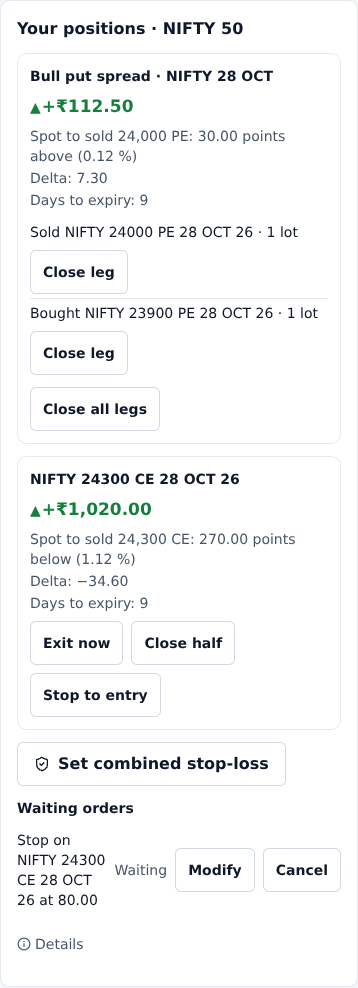
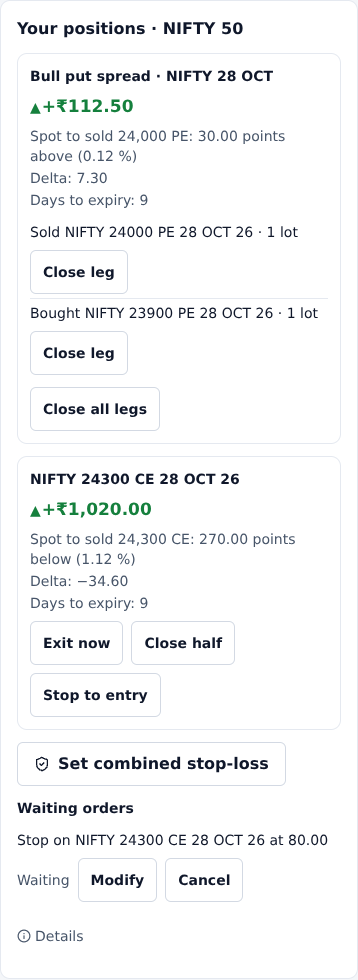
Proof follow-ups: waiting-order row, pulse touch sizes, study PDF page breaks
- WaitingOrdersV2 (Copilot position cards, Positions, Terminal): on a phone the order line takes the full width and
  Waiting / Modify / Cancel wrap to their own row; from sm up unchanged.
- Market pulse: PAPER / LIVE switch and the thesis Symbol picker are 44 px tall on small screens or a touch pointer;
  desktop unchanged (24 / 36 px).
- Study PDF page engine: a table that continues on a new page repeats "<section> (continued)" and its header row; a
  section's closing lines never stand alone at the top of a page (the piece before them comes along). Tests added.
- Proof pages: M77 sample PDF pages 3-6 regenerated (same fixture, 6 pages); M76 positions-390 shots regenerated;
  the matching open items marked fixed.

Claude-Session: https://claude.ai/code/session_0111ZseAMRvkKNzt3WVC9Lph

diff --git a/docs/design/M77_PROOF.html b/docs/design/M77_PROOF.html
@@ -104,7 +104,7 @@ step after deploy</strong> (saved from his account and attached to his private r
 <figure><figcaption>Desktop 1440 - dark</figcaption><img src="m77/account-export-1440-dark.png" alt="Desktop 1440 - dark" loading="lazy"></figure>
 </div>
 <h2>Sample PDF from the builder (A4, 6 pages, every section on)</h2>
-<p>Made-up fixture snapshot (the backend tests' NIFTY BANK frames, March 2026). File: 724 KB. Sections: cover, charts, structure, areas, ai_card, option_context, trade_plan, pre_trade_check, scenarios, similar_setups, notes.</p>
+<p>Made-up fixture snapshot (the backend tests' NIFTY BANK frames, March 2026). File: 734 KB. Sections: cover, charts, structure, areas, ai_card, option_context, trade_plan, pre_trade_check, scenarios, similar_setups, notes.</p>
 <div class="pages">
 <figure><figcaption>PDF page 1 of 6</figcaption><img src="m77/pdf-page-1.png" alt="PDF page 1 of 6" loading="lazy"></figure><figure><figcaption>PDF page 2 of 6</figcaption><img src="m77/pdf-page-2.png" alt="PDF page 2 of 6" loading="lazy"></figure><figure><figcaption>PDF page 3 of 6</figcaption><img src="m77/pdf-page-3.png" alt="PDF page 3 of 6" loading="lazy"></figure><figure><figcaption>PDF page 4 of 6</figcaption><img src="m77/pdf-page-4.png" alt="PDF page 4 of 6" loading="lazy"></figure><figure><figcaption>PDF page 5 of 6</figcaption><img src="m77/pdf-page-5.png" alt="PDF page 5 of 6" loading="lazy"></figure><figure><figcaption>PDF page 6 of 6</figcaption><img src="m77/pdf-page-6.png" alt="PDF page 6 of 6" loading="lazy"></figure>
 </div>
@@ -112,9 +112,10 @@ step after deploy</strong> (saved from his account and attached to his private r
 <div class="phones"><figure><figcaption>Study as one phone picture</figcaption><img src="m77/study-phone.png" alt="Study as one phone picture" loading="lazy"></figure><figure><figcaption>One chart (15 min)</figcaption><img src="m77/study-chart-15m.png" alt="One chart (15 min)" loading="lazy"></figure></div>
 <h2>Seen in these pictures - open items</h2>
 <ul>
-<li>PDF page 4 opens with the AI card's "Educational only." line, cut off from its section on page 3 (the page engine keeps
-a section's last line apart).</li>
-<li>PDF page 5 continues the trade-plan table with no "Trade plan (continued)" heading.</li>
+<li>Fixed (proof follow-ups): the AI card's closing "Educational only." line no longer opens page 4 alone - the card's last
+row comes along under "AI explanation (continued)" and the repeated header row (page 4).</li>
+<li>Fixed (proof follow-ups): a table that continues on a new page repeats "&lt;section&gt; (continued)" and its header row
+("Trade plan (continued)", page 5).</li>
 <li>CSV ZIP (11 files) checked: structure, areas, option context, AI card, trade plan, scenarios, pre-trade check, similar setups,
 checklist, bars per timeframe.</li>
 </ul>

diff --git a/docs/design/M76_PROOF.html b/docs/design/M76_PROOF.html
@@ -180,11 +180,12 @@ while a facility is only looked at.</p>
 <h2 id="open">Seen in these pictures - open items</h2>
 <ul>
 <li>MP-12 (trigger-plan dry run, D-2) is not built yet, so it has no picture.</li>
-<li>Waiting orders inside the position cards (phone 390): the order line wraps into a narrow column beside Waiting / Modify /
-Cancel (the shared WaitingOrdersV2 row, also used on Positions and the Terminal).</li>
+<li>Fixed (proof follow-ups): waiting orders inside the position cards (phone 390) - the order line now takes the full width,
+with Waiting / Modify / Cancel on their own row below it (the shared WaitingOrdersV2 row, also on Positions and the Terminal;
+desktop unchanged).</li>
 <li>Teach-on-chart on an area repeats its state ("Tested area: tested").</li>
-<li>Outside M76, lower on the same Copilot page at 390: Market pulse's PAPER / LIVE switch (24 px high) and the thesis Symbol
-picker (36 px) are under the 44 px touch size; the M76 spec checks the M76 parts only.</li>
+<li>Fixed (proof follow-ups): Market pulse's PAPER / LIVE switch and the thesis Symbol picker are 44 px tall on a phone
+(small screen or touch pointer; were 24 px and 36 px); desktop unchanged.</li>
 </ul>
 
 </main>

diff --git a/frontend/src/copilot/tabs/pulse/ThesisPanel.tsx b/frontend/src/copilot/tabs/pulse/ThesisPanel.tsx
@@ -78,7 +78,7 @@ export default function ThesisPanel() {
            action={(
              <>
                {/* a native select: the default tab stays light (the Radix Select is ~17 KB) */}
-               <select aria-label={t("thesis.symbol")} className={`${fieldClass} w-40`} value={symbol} onChange={(e) => setSymbol(e.target.value)}>
+               <select aria-label={t("thesis.symbol")} className={`${fieldClass} w-40 max-sm:min-h-11 [@media(pointer:coarse)]:min-h-11`} value={symbol} onChange={(e) => setSymbol(e.target.value)}>
                  {(watchlist.length ? watchlist : [symbol]).map((s) => <option key={s} value={s}>{s}</option>)}
                </select>
                <Button size="sm" variant="ghost" icon={<RefreshCw size={13} className={busy ? "animate-spin" : ""} />} disabled={busy} onClick={() => void load(true)}>{t("thesis.rebuild")}</Button>

diff --git a/frontend/src/copilot/tabs/MarketPulseTab.tsx b/frontend/src/copilot/tabs/MarketPulseTab.tsx
@@ -235,7 +235,7 @@ export default function MarketPulseTab() {
                  <div className="flex overflow-hidden rounded-md border border-border text-xs" role="group" aria-label={t("pulse.day.mode")}>
                    {(["PAPER", "LIVE"] as const).map((m) => (
                      <button key={m} onClick={() => setMode(m)} aria-pressed={shownMode === m}
-                             className={`px-2 py-0.5 ${shownMode === m ? "bg-ai/15 text-fg" : "text-fg-muted hover:text-fg"}`}>{m}</button>
+                             className={`inline-flex items-center px-2 py-0.5 max-sm:min-h-11 [@media(pointer:coarse)]:min-h-11 ${shownMode === m ? "bg-ai/15 text-fg" : "text-fg-muted hover:text-fg"}`}>{m}</button>
                    ))}
                  </div>
                )}>

diff --git a/frontend/src/fno/PositionActionsV2.tsx b/frontend/src/fno/PositionActionsV2.tsx
@@ -152,7 +152,7 @@ export function WaitingOrdersV2({ api = positionActionsApi, onChanged, refresh =
         {rows.map((o) => (
           <li key={o.id} className="py-space-1" data-waiting={o.id}>
             <div className="flex flex-wrap items-center gap-space-2">
-              <span className="min-w-0 flex-1 text-t13 text-fg">{waitingLine(o)}</span>
+              <span className="min-w-0 grow basis-full text-t13 text-fg sm:basis-0" data-waiting-line>{waitingLine(o)}</span>
               <span className="text-t12 text-fg-muted">{o.status_words}</span>
               {o.status === "RESTING" && (
                 <>

diff --git a/backend/app/study/pages.py b/backend/app/study/pages.py
@@ -17,8 +17,8 @@ Each page also returns its text lines and their positions, which app/study/pdf.p
 from __future__ import annotations
 
 import math
-from collections.abc import Iterable, Mapping, Sequence
-from dataclasses import dataclass, field
+from collections.abc import Callable, Iterable, Mapping, Sequence
+from dataclasses import dataclass, field, replace
 from datetime import UTC, datetime, timedelta, timezone
 from typing import Any
 
@@ -133,23 +133,108 @@ class Op:
 @dataclass
 class Page:
     ops: list[Op] = field(default_factory=list)
+    end: float = float(MARGIN)                  # where its content ends (set when the next page starts)
+
+
+@dataclass
+class Unit:
+    """One placed piece the page engine may carry to the next page: a text line, a table row or header, a heading."""
+    page: int                                   # index into Layout.pages
+    op: int                                     # index of its first op on that page
+    y: float                                    # its top
+    kind: str                                   # line | row | header | heading | other
+    block: int                                  # the paragraph / table / picture it belongs to
+    again: Callable[[], None] | None = None     # a table row: draws "<section> (continued)" and the header on a new page
+
+
+def _shifted(op: Op, dy: float) -> Op:
+    x0, y0, x1, y1 = op.box
+    return replace(op, box=(x0, y0 + dy, x1, y1) if op.kind == "text" else (x0, y0 + dy, x1, y1 + dy))
 
 
 class Layout:
-    """Places blocks top to bottom; a block that does not fit starts a new page (a table repeats its header)."""
+    """Places blocks top to bottom; a block that does not fit starts a new page. A table that continues on a new page
+    repeats "<section> (continued)" and its header row; a section's closing lines never stand alone at the top of a page
+    (`end_section` carries the piece before them along)."""
 
     def __init__(self, pal: Palette) -> None:
         self.pal = pal
         self.pages: list[Page] = [Page()]
         self.y = float(MARGIN)
+        self.section = ""                       # the current section's title, for "(continued)"
+        self.units: list[Unit] = []
+        self._block = 0
+        self._section_from = 0                  # index into `units` where the current section starts
 
     @property
     def ops(self) -> list[Op]:
         return self.pages[-1].ops
 
     def new_page(self) -> None:
+        self.pages[-1].end = self.y
         self.pages.append(Page())
         self.y = float(MARGIN)
+
+    def _begin(self) -> None:
+        self._block += 1
+
+    def _mark(self, kind: str, again: Callable[[], None] | None = None) -> None:
+        self.units.append(Unit(len(self.pages) - 1, len(self.ops), self.y, kind, self._block, again))
+
+    def continued(self) -> None:
+        """"<section> (continued)" at the top of a page a table carries on to (none before the first section heading)."""
+        if not self.section:
+            return
+        self._mark("heading")
+        self.text_line(MARGIN, f"{self.section} (continued)", SIZE_HEAD, self.pal.text)
+        self.y += SIZE_HEAD * LINE_GAP
+        self.ops.append(Op("rule", (MARGIN, self.y - 6, PAGE_W - MARGIN, self.y - 4), self.pal.border))
+        self.gap(10)
+
+    def _sticky(self, before: Unit, unit: Unit) -> bool:
+        """`before` goes along with `unit` to the next page: a heading, a table header, or a one-line lead-in to a table."""
+        if before.kind in ("heading", "header"):
+            return True
+        return (before.kind == "line" and unit.kind == "header"
+                and sum(1 for u in self.units if u.block == before.block) == 1)
+
+    def end_section(self) -> None:
+        """A section's closing lines never stand alone at the top of a page: when the section's part on its last page is
+        only its last paragraph, the piece before it (a table row - its section "(continued)" and header drawn again -
+        or a line) comes along to that page, with a heading or header just before that piece. Nothing moves when the
+        previous page would be left empty or the page would overflow."""
+        units, self._section_from = self.units[self._section_from:], len(self.units)
+        last = len(self.pages) - 1
+        tail = [u for u in units if u.page == last]
+        prev = [u for u in units if u.page == last - 1]
+        if not tail or not prev or tail[0].op != 0 or {u.kind for u in tail} != {"line"} or len({u.block for u in tail}) != 1:
+            return
+        k = len(prev) - 1
+        while k > 0 and self._sticky(prev[k - 1], prev[k]):
+            k -= 1
+        first = prev[k]
+        if first.op == 0:
+            return
+        saved = ([Page(list(p.ops), p.end) for p in self.pages], list(self.units), self.y)
+        src, tail_page, tail_end = self.pages[last - 1], self.pages.pop(), self.y
+        moved, src_end = src.ops[first.op:], src.end
+        del src.ops[first.op:]
+        carried = [u for u in self.units if u.page == last - 1 and u.op >= first.op]
+        self.units = [u for u in self.units if u.page < last - 1 or (u.page == last - 1 and u.op < first.op)]
+        self.y = first.y
+        self.new_page()
+        if first.kind == "row" and first.again is not None:
+            first.again()
+        dy, base = self.y - first.y, len(self.ops)
+        self.ops.extend(_shifted(op, dy) for op in moved)
+        self.units.extend(replace(u, page=last, op=base + u.op - first.op, y=u.y + dy) for u in carried)
+        dy, base = src_end + dy - MARGIN, len(self.ops)
+        self.ops.extend(_shifted(op, dy) for op in tail_page.ops)
+        self.units.extend(replace(u, page=last, op=base + u.op, y=u.y + dy) for u in tail)
+        self.y = tail_end + dy
+        if self.y > BODY_BOTTOM:                # it would not fit: the pages stay as they were
+            self.pages, self.units, self.y = saved
+        self._section_from = len(self.units)
 
     def room(self, h: float) -> None:
         if self.y + h > BODY_BOTTOM and self.y > MARGIN:
@@ -162,23 +247,30 @@ class Layout:
         self.y += h
 
     def title(self, text: str) -> None:
+        self._begin()
         self.room(SIZE_TITLE * LINE_GAP * 2)
         for line in wrap(text, SIZE_TITLE, PAGE_W - 2 * MARGIN):
+            self._mark("other")
             self.text_line(MARGIN, line, SIZE_TITLE, self.pal.text)
             self.y += SIZE_TITLE * LINE_GAP
         self.gap(8)
 
     def heading(self, text: str) -> None:
         self.room(SIZE_HEAD * LINE_GAP + SIZE_BODY * LINE_GAP * 3)          # never a heading alone at a page's foot
+        self.section, self._section_from = text, len(self.units)
+        self._begin()
         self.gap(18)
+        self._mark("heading")
         self.text_line(MARGIN, text, SIZE_HEAD, self.pal.text)
         self.y += SIZE_HEAD * LINE_GAP
         self.ops.append(Op("rule", (MARGIN, self.y - 6, PAGE_W - MARGIN, self.y - 4), self.pal.border))
         self.gap(10)
 
     def para(self, text: str, size: int = SIZE_BODY, colour: Rgb | None = None, indent: float = 0) -> None:
+        self._begin()
         for line in wrap(text, size, PAGE_W - 2 * MARGIN - indent):
             self.room(size * LINE_GAP)
+            self._mark("line")
             self.text_line(MARGIN + indent, line, size, colour or self.pal.text)
             self.y += size * LINE_GAP
 
@@ -212,18 +304,29 @@ class Layout:
             return max(len(c) for c in cells(values)) * line_h + 2 * CELL_PAD
 
         header = [t for t, _, _ in columns]
+
+        def header_again() -> None:             # on a new page: "<section> (continued)" and the header row again
+            self.continued()
+            self._mark("header")
+            draw_row(header, self.pal.surface, self.pal.text_muted)
+
+        self._begin()
         self.room(row_height(header) + (row_height(rows[0]) if rows else 0))
+        self._mark("header")
         draw_row(header, self.pal.surface, self.pal.text_muted)
         for i, row in enumerate(rows):
             if self.y + row_height(row) > BODY_BOTTOM:
                 self.new_page()
-                draw_row(header, self.pal.surface, self.pal.text_muted)
+                header_again()
+            self._mark("row", header_again)
             draw_row(row, (tints[i] if tints else None), self.pal.text)
         self.gap(10)
 
     def picture(self, img: Image.Image) -> None:
         """A picture (a chart) full width; it never splits across pages."""
+        self._begin()
         self.room(img.height + 10)
+        self._mark("other")
         self.ops.append(Op("image", (MARGIN, self.y, MARGIN + img.width, self.y + img.height), self.pal.border, image=img))
         self.y += img.height + 10
 
@@ -645,6 +748,7 @@ def layout(snap: Mapping[str, Any], fp: str, *, cvd: bool = False) -> tuple[list
         else:
             lay.heading(S.SECTION_TITLES.get(section, section))
             lay.not_available(str(unavailable.get(section) or "not part of a saved study yet"))
+        lay.end_section()
     return lay.pages, pal
 
 

diff --git a/backend/tests/test_m77_sx3_pdf.py b/backend/tests/test_m77_sx3_pdf.py
@@ -156,3 +156,47 @@ def test_pdf_route_own_study_only_same_bytes(served):  # noqa: F811 - the fixtur
 def test_pdf_route_is_classified_for_tenancy():
     from tests.tenancy_route_table import ROUTE_TABLE
     assert ROUTE_TABLE[("GET", "/api/studies/{study_id}/pdf")].startswith("member")
+
+
+# Proof follow-ups: a table that continues repeats "<section> (continued)" and its header; a section's closing line never
+# stands alone at the top of a page.
+def _page_texts(lay) -> list[list[str]]:
+    return [[op.text for op in page.ops if op.kind == "text"] for page in lay.pages]
+
+
+def test_a_table_that_continues_repeats_the_section_heading_and_its_header():
+    from app.study.palette import palette
+    lay = P.Layout(palette())
+    lay.heading("Areas")
+    lay.table([("Area", 0.5, "left"), ("Band", 0.5, "left")], [[f"S{i}", f"band {i}"] for i in range(80)])
+    pages = _page_texts(lay)
+    assert len(pages) >= 2
+    assert "Areas (continued)" not in pages[0]
+    for later in pages[1:]:
+        assert later[:3] == ["Areas (continued)", "Area", "Band"]
+
+
+def _closing_alone(n_rows: int):
+    from app.study.palette import palette
+    lay = P.Layout(palette())
+    lay.heading("AI explanation")
+    lay.table([("Item", 0.4, "left"), ("Value", 0.6, "left")], [[f"Row {i}", "value"] for i in range(n_rows)])
+    lay.para("Educational only.", size=P.SIZE_SMALL)
+    return lay
+
+
+def test_a_sections_closing_line_is_never_alone_at_the_top_of_a_page():
+    for n in range(1, 120):                             # the first table length that leaves the closing line alone
+        lay = _closing_alone(n)
+        if len(lay.pages) == 2 and _page_texts(lay)[1] == ["Educational only."]:
+            break
+    else:
+        pytest.fail("no table length left the closing line alone")
+    lay.end_section()
+    first, second = _page_texts(lay)
+    assert second == ["AI explanation (continued)", "Item", "Value", f"Row {n - 1}", "value", "Educational only."]
+    assert f"Row {n - 2}" in first and f"Row {n - 1}" not in first
+    ys = [op.box[1] for op in lay.pages[1].ops if op.kind == "text"]
+    assert ys == sorted(ys) and max(ys) < P.BODY_BOTTOM
+    lay.end_section()                                   # a second call changes nothing
+    assert _page_texts(lay) == [first, second]
